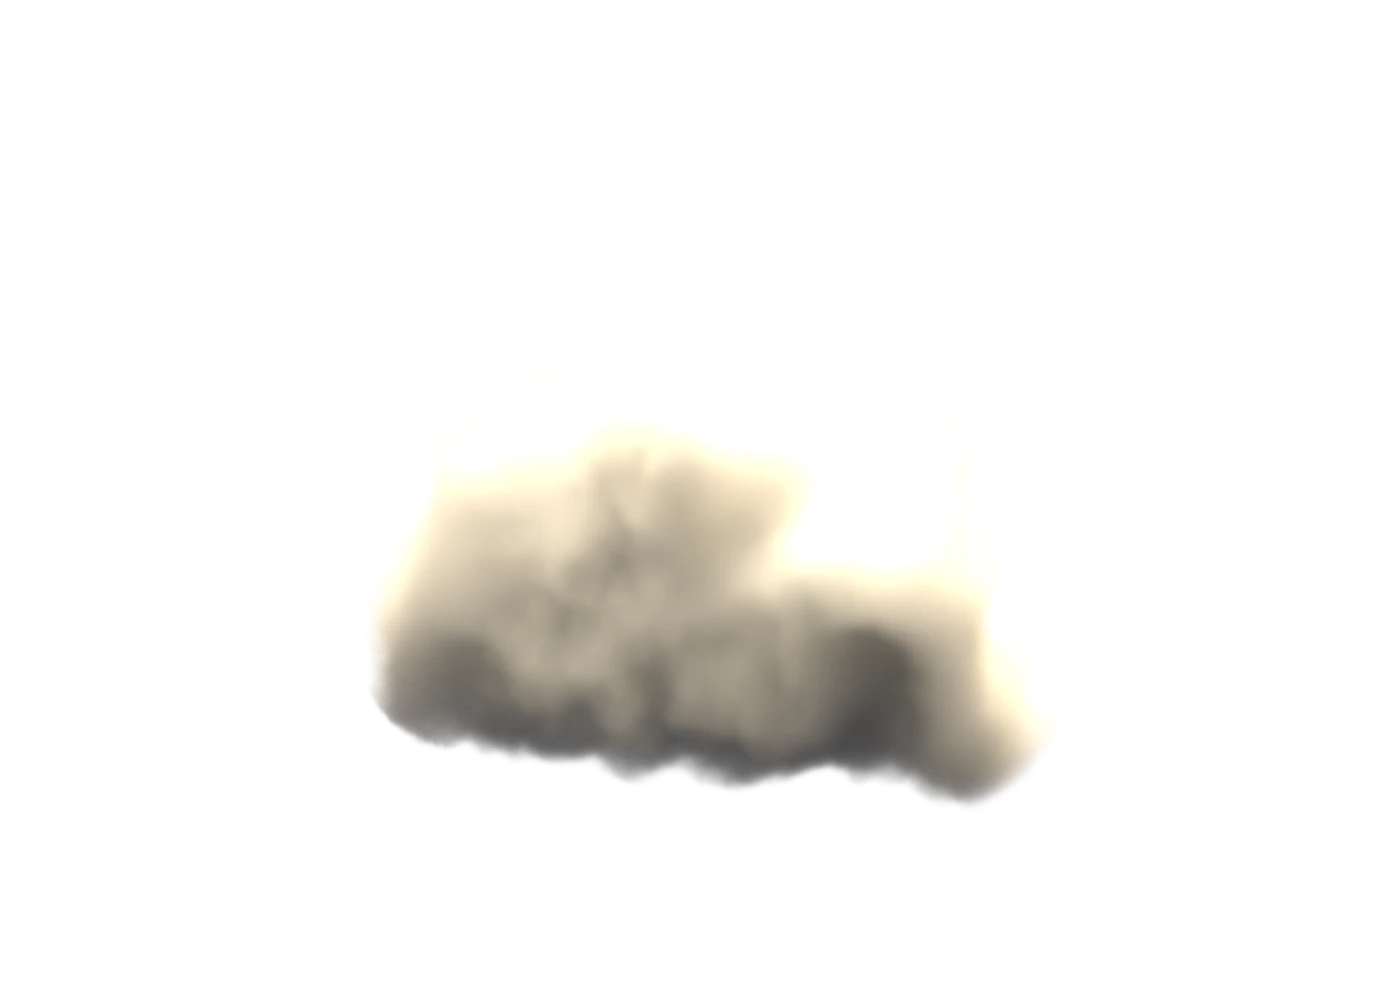
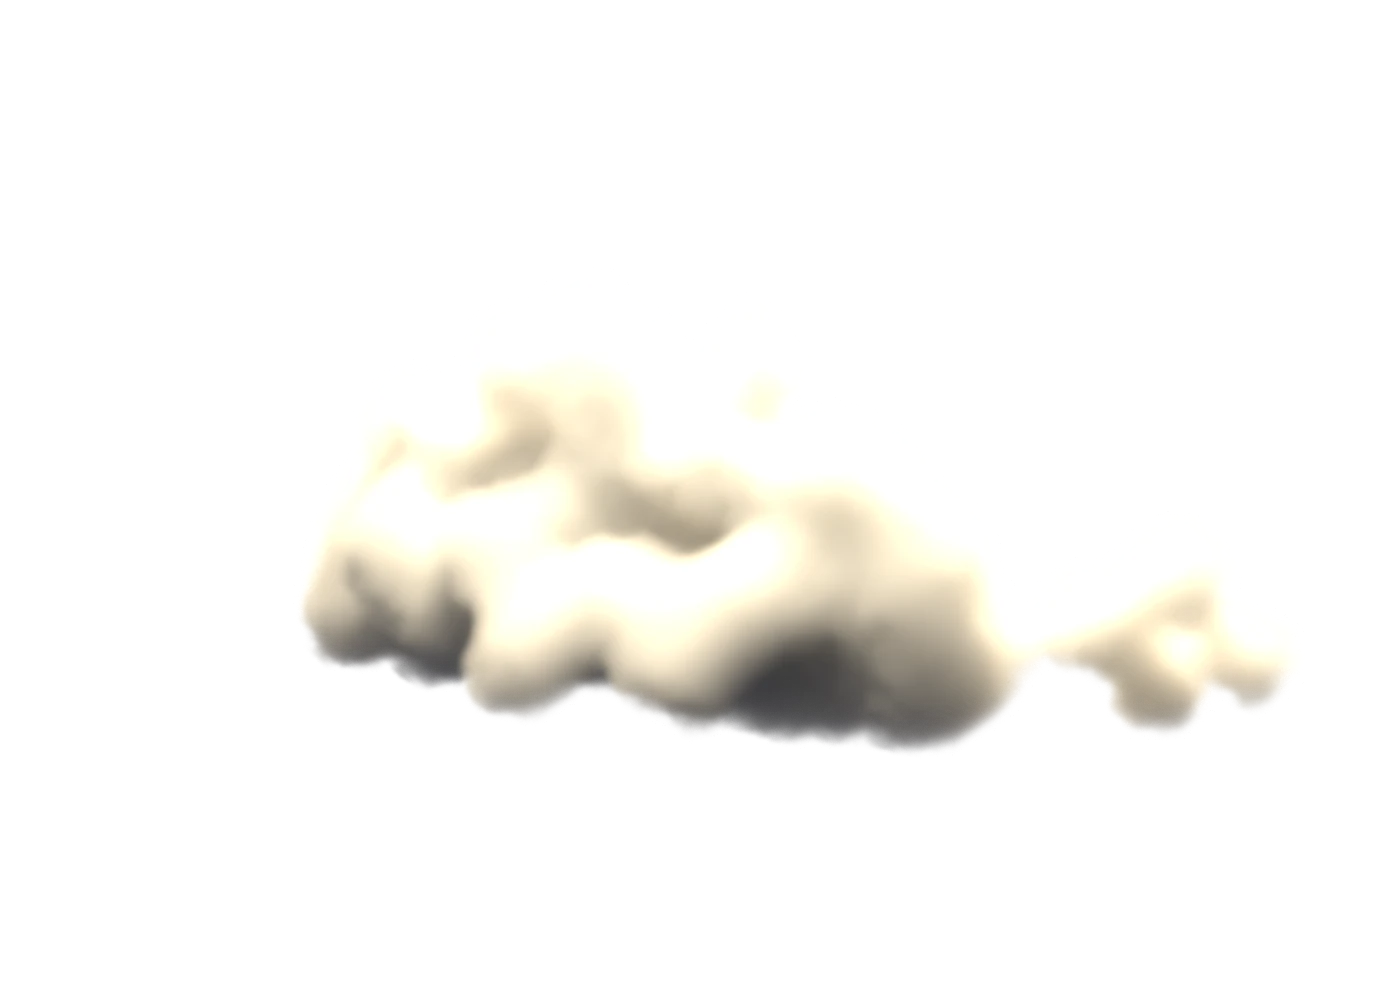
The cloud remodelled after the reference
More and rounder lobes (six along the base, six above, five, three and a peak left of centre), bulges
toward the camera and a small trailing cloud back right; a finer cotton texture; a dense white body
with eight volume bounces; the key lamp above with little fill, so the creases and the base shade.
Drawn larger in the box and a little higher, as in the picture.

Changed region(s): [[0.215, 0.372, 0.9214, 0.806], [0.5221, 0.372, 0.5529, 0.434]]

diff --git a/index.html b/index.html
@@ -302,13 +302,13 @@
   var clouds = {}, cloudAt = { ox: 0, oy: 0.1, w: [1, 0, 0] };
   ['calm', 'rain', 'sun'].forEach(function (k) { var im = new Image(); im.src = 'cloud_' + k + '.webp'; clouds[k] = im; });
   function renderCloud(wr, ws) {                       // once per frame: where the cloud is and which renders show
-    cloudAt.oy = 0.1 - 0.06 * wr + 0.03 * ws + (still ? 0 : Math.sin(t * 0.23) * 0.006);
+    cloudAt.oy = 0.16 - 0.07 * wr + 0.03 * ws + (still ? 0 : Math.sin(t * 0.23) * 0.006);
     cloudAt.ox = still ? 0 : Math.sin(t * 0.17) * 0.008;
     cloudAt.w = [Math.max(0, 1 - wr - ws), wr, ws];
   }
   function cloud(mirror) {
     var c = proj([cloudAt.ox, mirror ? -1 - cloudAt.oy : cloudAt.oy, 0]), base = ctx.globalAlpha, keys = ['calm', 'rain', 'sun'];
-    var w = 1.4 * S * c[3], h = w * 1000 / 1400;       // the renders cover 1.4 page units at the cloud's centre
+    var w = 1.75 * S * c[3], h = w * 1000 / 1400;      // the renders cover 1.75 page units at the cloud's centre
     ctx.save();
     if (mirror) { ctx.translate(c[0], c[1]); ctx.scale(1, -1); ctx.translate(-c[0], -c[1]); }
     for (var i = 0; i < 3; i++) {

diff --git a/tools/cloud_render.py b/tools/cloud_render.py
@@ -38,7 +38,7 @@ for d in prefs.devices:
 scene.cycles.device = 'GPU'
 scene.cycles.samples = samples
 scene.cycles.use_denoising = True
-scene.cycles.volume_bounces = 6                           # light bouncing inside the cloud: the soft, luminous look
+scene.cycles.volume_bounces = 8                           # light bouncing inside the cloud: the soft, luminous look
 scene.cycles.volume_max_steps = 1024
 scene.cycles.volume_step_rate = 0.5
 scene.render.film_transparent = True
@@ -48,7 +48,7 @@ scene.render.image_settings.file_format = 'PNG'
 scene.render.image_settings.color_mode = 'RGBA'
 scene.render.filepath = out
 scene.view_settings.view_transform = 'Standard'
-scene.view_settings.exposure = -0.45
+scene.view_settings.exposure = -0.5
 
 
 def link(o):
@@ -67,27 +67,34 @@ def rnd():
     return seed / 4294967296
 
 
-# the pile: five big lobes along the base, five in the middle, five small on top (the middle one highest), a little jitter
-for i in range(5):
-    a = -0.28 + i * 0.14
-    lobes.append((a + (rnd() - 0.5) * 0.02, -0.06, (rnd() - 0.5) * 0.06, 0.16 + rnd() * 0.02))
-for i in range(5):
-    a = -0.24 + i * 0.12
-    lobes.append((a + (rnd() - 0.5) * 0.03, 0.05 + rnd() * 0.02, (rnd() - 0.5) * 0.08, 0.13 + rnd() * 0.02))
-for i in range(8):
-    a = -0.245 + i * 0.07
-    lobes.append((a + (rnd() - 0.5) * 0.02, 0.13 + 0.06 * math.cos((i - 3.5) * 0.55) + rnd() * 0.02, (rnd() - 0.5) * 0.1, 0.08 + rnd() * 0.02))
+# the pile, after the reference: six round lobes along the base, six above, five, then three on top with the peak
+# left of centre; four bulges toward the camera; a small trailing cloud back right. A little jitter.
+def row(n, x0, x1, y, z, r, jz=0.04):
+    for i in range(n):
+        x = x0 + (x1 - x0) * i / (n - 1)
+        lobes.append((x + (rnd() - 0.5) * 0.02, y + (rnd() - 0.5) * 0.02, z + (rnd() - 0.5) * jz * 2, r + rnd() * 0.015))
+
+
+row(6, -0.34, 0.34, -0.06, 0.0, 0.13)
+row(6, -0.31, 0.31, 0.04, 0.0, 0.12, 0.06)
+row(5, -0.25, 0.25, 0.13, 0.0, 0.105)
+row(3, -0.12, 0.12, 0.215, 0.0, 0.085)
+lobes.append((-0.05, 0.255, 0.0, 0.07))
+row(4, -0.22, 0.22, 0.03, -0.14, 0.1)
+row(3, -0.16, 0.16, -0.04, -0.15, 0.1)
+for x, y, z, r in ((0.46, -0.02, 0.12, 0.11), (0.54, 0.04, 0.08, 0.09), (0.6, -0.03, 0.14, 0.085), (0.5, -0.08, 0.18, 0.09)):
+    lobes.append((x, y, z, r))
 
 flat = 0.82 if state == 'rain' else 1.0
 wide = 1.08 if state == 'rain' else 1.0
 mb = bpy.data.metaballs.new('cloud')
-mb.resolution = 0.06
-mb.threshold = 0.7
+mb.resolution = 0.045
+mb.threshold = 0.78
 mbo = link(bpy.data.objects.new('cloud', mb))
 for x, y, z, r in lobes:
     el = mb.elements.new()
     el.co = (x * S * wide, z * S * wide, y * S * flat)
-    el.radius = r * S * 1.2
+    el.radius = r * S * 1.12
 bpy.context.view_layer.objects.active = mbo
 mbo.select_set(True)
 bpy.ops.object.convert(target='MESH')
@@ -98,32 +105,32 @@ vol = link(bpy.data.objects.new('cloudvol', bpy.data.volumes.new('cloudvol')))
 m2v = vol.modifiers.new('m2v', 'MESH_TO_VOLUME')
 m2v.object = mesh
 m2v.resolution_mode = 'VOXEL_AMOUNT'
-m2v.voxel_amount = 260
+m2v.voxel_amount = 320
 if hasattr(m2v, 'use_fill_volume'):
     m2v.use_fill_volume = True
 m2v.interior_band_width = 0.35
 tex = bpy.data.textures.new('fluff', 'CLOUDS')
-tex.noise_scale = 0.6
-tex.noise_depth = 5
+tex.noise_scale = 0.45
+tex.noise_depth = 3
 disp = vol.modifiers.new('fluff', 'VOLUME_DISPLACE')
 disp.texture = tex
-disp.strength = 0.38
+disp.strength = 0.13
 disp.texture_sample_radius = 0.3
 tex2 = bpy.data.textures.new('fine', 'CLOUDS')
-tex2.noise_scale = 0.18
+tex2.noise_scale = 0.14
 tex2.noise_depth = 4
 disp2 = vol.modifiers.new('fine', 'VOLUME_DISPLACE')
 disp2.texture = tex2
-disp2.strength = 0.1
-disp2.texture_sample_radius = 0.2
+disp2.strength = 0.09
+disp2.texture_sample_radius = 0.14
 
 mat = bpy.data.materials.new('cloud')
 mat.use_nodes = True
 nodes = mat.node_tree.nodes
 nodes.clear()
 pv = nodes.new('ShaderNodeVolumePrincipled')
-pv.inputs['Density'].default_value = {'calm': 50.0, 'rain': 65.0, 'sun': 42.0}[state]
-pv.inputs['Anisotropy'].default_value = 0.5
+pv.inputs['Density'].default_value = {'calm': 70.0, 'rain': 85.0, 'sun': 62.0}[state]
+pv.inputs['Anisotropy'].default_value = 0.3
 pv.inputs['Color'].default_value = (1.0, 1.0, 1.0, 1.0)
 outn = nodes.new('ShaderNodeOutputMaterial')
 mat.node_tree.links.new(pv.outputs['Volume'], outn.inputs['Volume'])
@@ -136,7 +143,7 @@ camo = link(bpy.data.objects.new('cam', cam))
 yaw, pitch, dist = math.radians(34), math.radians(9), 7.0
 camo.location = (math.sin(yaw) * math.cos(pitch) * dist, -math.cos(yaw) * math.cos(pitch) * dist, math.sin(pitch) * dist + 0.15 * S)
 tgt = link(bpy.data.objects.new('tgt', None))
-tgt.location = (0, 0, 0.1 * S)
+tgt.location = (0.08 * S, 0, 0.08 * S)
 c = camo.constraints.new('TRACK_TO')
 c.target = tgt
 c.track_axis = 'TRACK_NEGATIVE_Z'
@@ -161,15 +168,15 @@ def lamp(name, loc, energy, colour, sz, look=(0, 0, 0)):
 
 
 if state == 'calm':
-    lamp('key', (0.6, -1.5, 9.0), 2800, (1.0, 1.0, 1.0), 2.5)
-    lamp('fill', (-2.0, -9.0, 1.0), 260, (0.85, 0.9, 1.0), 6.0)
+    lamp('key', (0.8, -2.2, 9.0), 2600, (1.0, 1.0, 1.0), 2.6)
+    lamp('fill', (0.0, -9.0, 2.0), 160, (0.9, 0.93, 1.0), 8.0)
 elif state == 'rain':
-    lamp('key', (0.6, -1.5, 9.0), 900, (0.72, 0.8, 0.95), 3.5)
-    lamp('fill', (-2.0, -9.0, 1.0), 120, (0.7, 0.78, 0.95), 6.0)
+    lamp('key', (0.8, -2.2, 9.0), 900, (0.72, 0.8, 0.95), 3.2)
+    lamp('fill', (0.0, -9.0, 2.0), 80, (0.7, 0.78, 0.95), 8.0)
 else:
-    lamp('key', (0.6, -1.5, 9.0), 4200, (1.0, 0.86, 0.62), 2.6)
+    lamp('key', (0.8, -2.2, 9.0), 3800, (1.0, 0.86, 0.62), 2.6)
     lamp('rim', (-1.0, 4.0, 7.0), 2600, (1.0, 0.8, 0.5), 2.0)
-    lamp('fill', (-2.0, -9.0, 1.0), 220, (1.0, 0.9, 0.78), 6.0)
+    lamp('fill', (0.0, -9.0, 2.0), 140, (1.0, 0.9, 0.78), 8.0)
 
 world = bpy.data.worlds.new('w')
 scene.world = world
